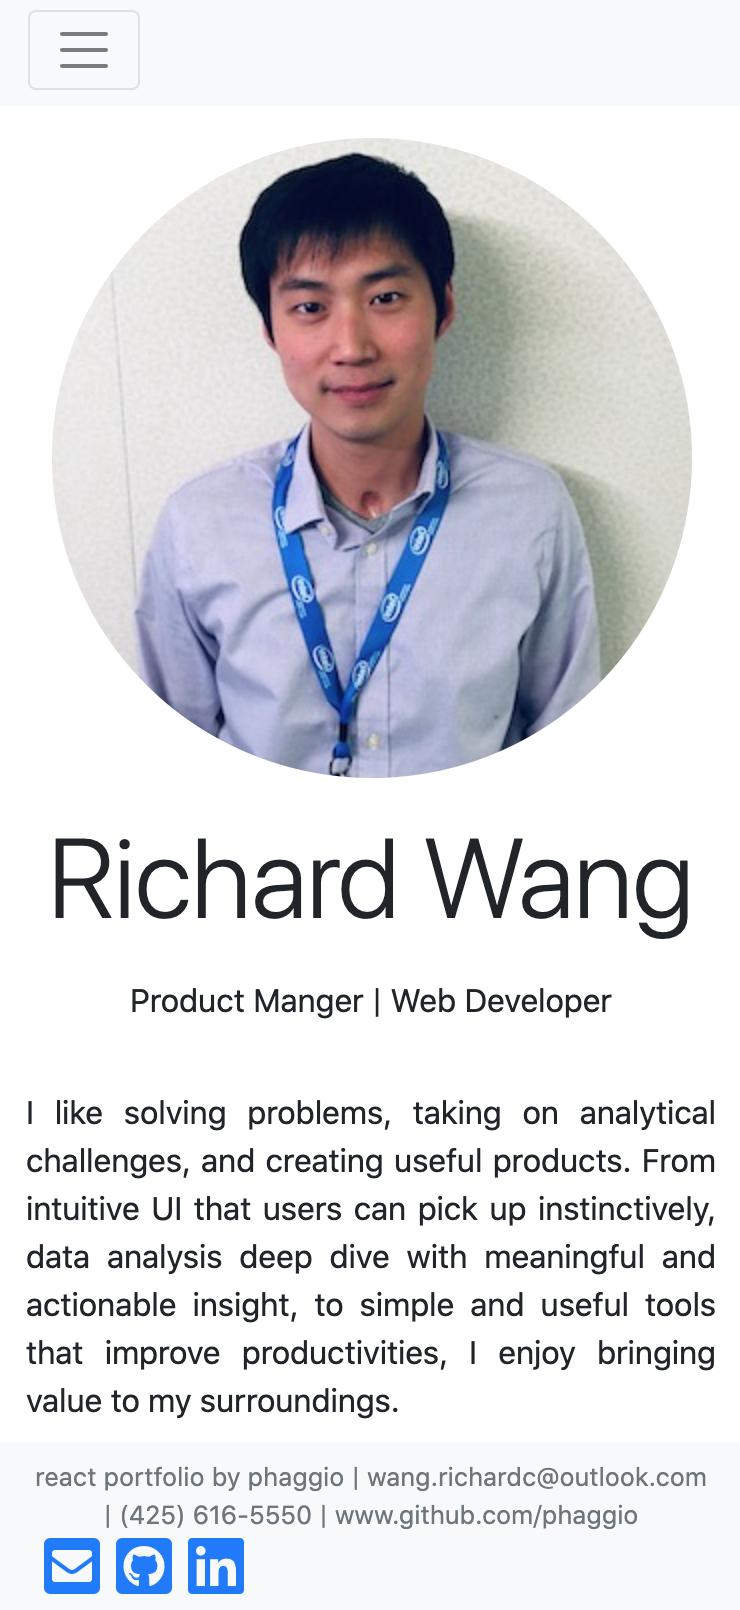
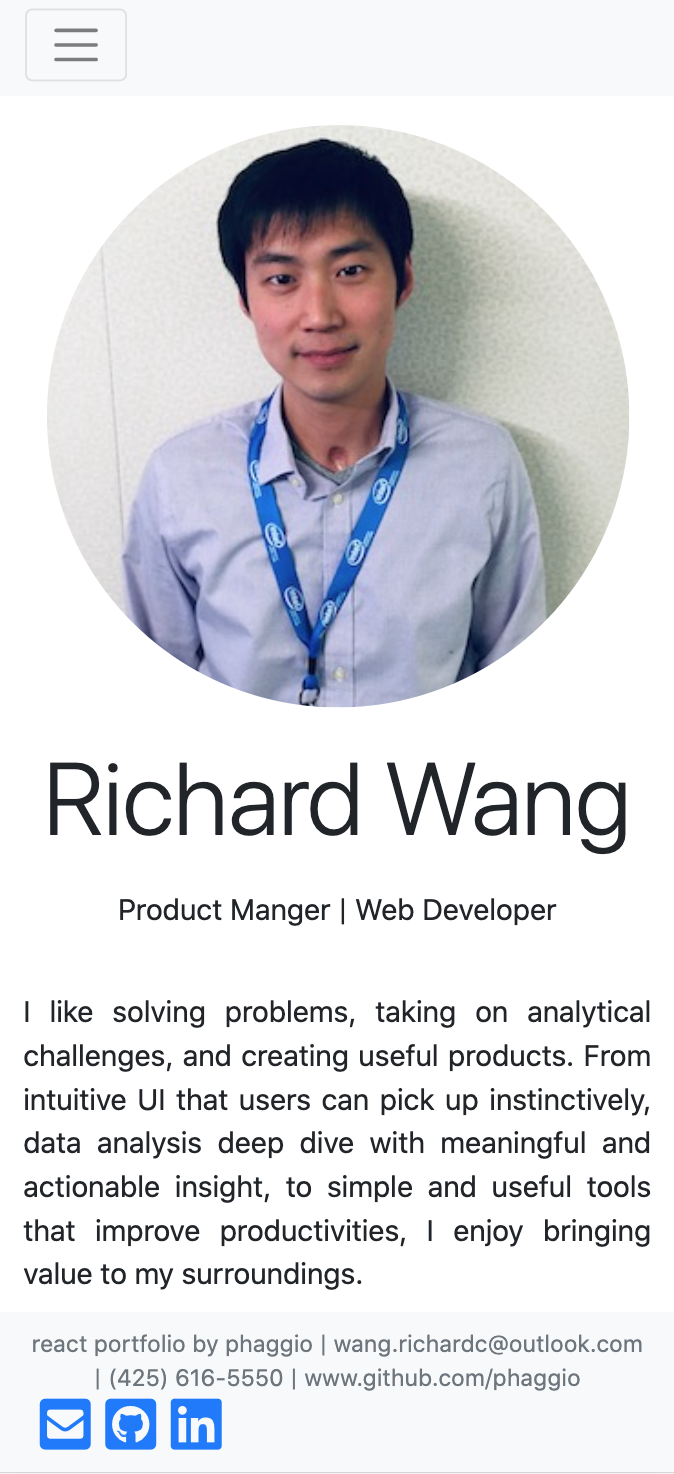
update

diff --git a/src/pages/Home.jsx b/src/pages/Home.jsx
@@ -10,83 +10,85 @@ const style = {
 const Home = () => {
 	const content = aboutMe ? aboutMe[0] : {};
 	return (
-		<div className="container pb-5">
-			<div className="row pb-5">
+		<div className="pb-5 mb-5 pb-sm-0 mb-sm-0">
+			<div className="container">
+				<div className="row">
 
 
-				<div className="col-12 col-md-6">
-					<div className="d-flex justify-content-center mt-2">
-						<img className="rounded-circle py-2" alt="profile"
-							src={`${githubDir}/assets/images/profile.jpeg`} style={style} />
+					<div className="col-12 col-md-6">
+						<div className="d-flex justify-content-center mt-2">
+							<img className="rounded-circle py-2" alt="profile"
+								src={`${githubDir}/assets/images/profile.jpeg`} style={style} />
+						</div>
 					</div>
-				</div>
 
-				<div className="col-12 col-md-6">
-					<div className="d-flex flex-column mt-2">
-						<div className="text-center display-4">Richard Wang</div>
-						<div className="py-2">
-							<div className="text-center py-2">
-								<p>Product Manger | Web Developer</p>
-							</div>
-							<div className="pt-2">
-								<p className="text-justify">{content.background1}</p>
-								<p className="text-justify">{content.background2}</p>
+					<div className="col-12 col-md-6">
+						<div className="d-flex flex-column mt-2">
+							<div className="text-center display-4">Richard Wang</div>
+							<div className="py-2">
+								<div className="text-center py-2">
+									<p>Product Manger | Web Developer</p>
+								</div>
+								<div className="pt-2">
+									<p className="text-justify">{content.background1}</p>
+									<p className="text-justify">{content.background2}</p>
+								</div>
 							</div>
 						</div>
 					</div>
-				</div>
 
-				<div className="col-12">
-					<div className="d-flex justify-content-center">
-						<label className="h4">Skills</label>
-					</div>
-				</div>
-
-				<div className="col-12 col-md-4">
-					<div className="d-flex flex-column align-items-center p-2 shadow rounded">
-						<label className="text-center text-md-left font-weight-light">Languages</label>
-						<ul className="list-group list-group-flush w-100">
-							{content.languages.map(lang =>
-								<li className="list-group-item" key={lang.name} type={lang.type} icon={lang.icon} name={lang.name}>
-									<i className={`${lang.icon} mr-2`} />
-									{lang.name}
-								</li>
-							)}
-						</ul>
-					</div>
-				</div>
-
-				<div className="col-12 col-md-4">
-					<div className="d-flex flex-column align-items-center p-2 shadow rounded">
-						<label className="text-center text-md-left font-weight-light">Tools</label>
-						<ul className="list-group list-group-flush w-100">
-							{content.tools.map(tool =>
-								<li className="list-group-item" key={tool.name} type={tool.type} icon={tool.icon} name={tool.name}>
-									<i className={`${tool.icon} mr-2`} />
-									{tool.name}
-								</li>
-							)}
-						</ul>
-					</div>
-				</div>
-
-				<div className="col-12 col-md-4">
-					<div className="d-flex flex-column align-items-center p-2 shadow rounded ">
-
-						<label className="text-center text-md-left font-weight-light">Framework/Libraries</label>
-						<ul className="list-group list-group-flush w-100">
-							{content.libraries.map(lib =>
-								<li className="list-group-item" key={lib.name} type={lib.type} icon={lib.icon} name={lib.name}>
-									<i className={`${lib.icon} mr-2`} />
-									{lib.name}
-								</li>
-							)}
-						</ul>
+					<div className="col-12">
+						<div className="d-flex justify-content-center">
+							<label className="h4">Skills</label>
+						</div>
 					</div>
 
+					<div className="col-12 col-md-4">
+						<div className="d-flex flex-column align-items-center p-2 shadow rounded">
+							<label className="text-center text-md-left font-weight-light">Languages</label>
+							<ul className="list-group list-group-flush w-100">
+								{content.languages.map(lang =>
+									<li className="list-group-item" key={lang.name} type={lang.type} icon={lang.icon} name={lang.name}>
+										<i className={`${lang.icon} mr-2`} />
+										{lang.name}
+									</li>
+								)}
+							</ul>
+						</div>
+					</div>
+
+					<div className="col-12 col-md-4">
+						<div className="d-flex flex-column align-items-center p-2 shadow rounded">
+							<label className="text-center text-md-left font-weight-light">Tools</label>
+							<ul className="list-group list-group-flush w-100">
+								{content.tools.map(tool =>
+									<li className="list-group-item" key={tool.name} type={tool.type} icon={tool.icon} name={tool.name}>
+										<i className={`${tool.icon} mr-2`} />
+										{tool.name}
+									</li>
+								)}
+							</ul>
+						</div>
+					</div>
+
+					<div className="col-12 col-md-4">
+						<div className="d-flex flex-column align-items-center p-2 shadow rounded">
+
+							<label className="text-center text-md-left font-weight-light">Framework/Libraries</label>
+							<ul className="list-group list-group-flush w-100">
+								{content.libraries.map(lib =>
+									<li className="list-group-item" key={lib.name} type={lib.type} icon={lib.icon} name={lib.name}>
+										<i className={`${lib.icon} mr-2`} />
+										{lib.name}
+									</li>
+								)}
+							</ul>
+						</div>
+
+					</div>
+
+
 				</div>
-
-
 			</div>
 		</div>
 	)

diff --git a/src/components/Footer/index.jsx b/src/components/Footer/index.jsx
@@ -6,7 +6,7 @@ const json = footerJSON ? footerJSON[0] : {};
 const Footer = () => {
 
   return (
-    <nav className="navbar fixed-bottom bg-light justify-content-between">
+    <nav className="navbar fixed-bottom bg-light d-flex justify-content-between flex-column flex-md-row">
       <small className="text-secondary text-center">
         react portfolio by phaggio | wang.richardc@outlook.com | (425) 616-5550 | www.github.com/phaggio
       </small>
@@ -16,16 +16,16 @@ const Footer = () => {
         <a className="nav-item nav-link p-0 ml-2" href={`mailto:${json.email}`}>
           <i className="fas fa-envelope-square fa-2x"></i>
         </a>
-
         <a className="nav-item nav-link p-0 ml-2" href={json.github}
           rel="noopener noreferrer" target="_blank">
           <i className="fab fa-github-square fa-2x"></i>
         </a>
-
         <a className="nav-item nav-link p-0 ml-2" href={json.linkedIn}
           rel="noopener noreferrer" target="_blank">
           <i className="fab fa-linkedin fa-2x"></i>
         </a>
+
+
       </div>
 
     </nav>

diff --git a/src/components/ProjectDetail/index.jsx b/src/components/ProjectDetail/index.jsx
@@ -11,8 +11,8 @@ const imgSize = {
 const ProjectDetail = props => {
 
   return (
-    <div>
-      <div className="row pb-5">
+    <div className="  pb-5 mb-5 pb-sm-0 mb-sm-0">
+      <div className="row">
 
         {/* title and description */}
         <div className="col-12">
@@ -39,10 +39,9 @@ const ProjectDetail = props => {
 
 
         {/* links and tech stack list */}
-        {/* <div className="col-12 col-md-6 col-lg-5"> */}
-
-        {/* links */}
         <div className="col-12 col-md-6 col-lg-5">
+
+          {/* links */}
           <div className="mb-sm-2 shadow rounded p-2">
             <label className="font-weight-light">Links:</label>
             <div className="d-flex flex-column align-items-center">
@@ -74,7 +73,7 @@ const ProjectDetail = props => {
 
 
           {/* tech stack  */}
-          <div className="shadow rounded p-2">
+          <div className="mb-sm-2 shadow rounded p-2">
             <label className="font-weight-light">Technologies:</label>
             <div className="">
               {props.project.technologies ?

diff --git a/src/index.js b/src/index.js
@@ -6,9 +6,9 @@ import App from './App';
 import * as serviceWorker from './serviceWorker';
 
 ReactDOM.render(
-  <React.StrictMode>
+  // <React.StrictMode>
     <App />
-  </React.StrictMode>
+  // </React.StrictMode>
   ,
   document.getElementById('root')
 );

diff --git a/src/App.js b/src/App.js
@@ -8,7 +8,6 @@ import Portfolio from './pages/Portfolio';
 import Resume from './pages/Resume';
 
 function App() {
-  // console.log(`${process.env.PUBLIC_URL}`)
   return (
     <Router>
         <Navbar />

diff --git a/src/pages/Portfolio.jsx b/src/pages/Portfolio.jsx
@@ -18,7 +18,7 @@ const Portfolio = () => {
   }
 
   return (
-    <div className="container pb-5">
+    <div className="container">
       <div className="row">
 
         <div className="col-12 d-lg-none">
